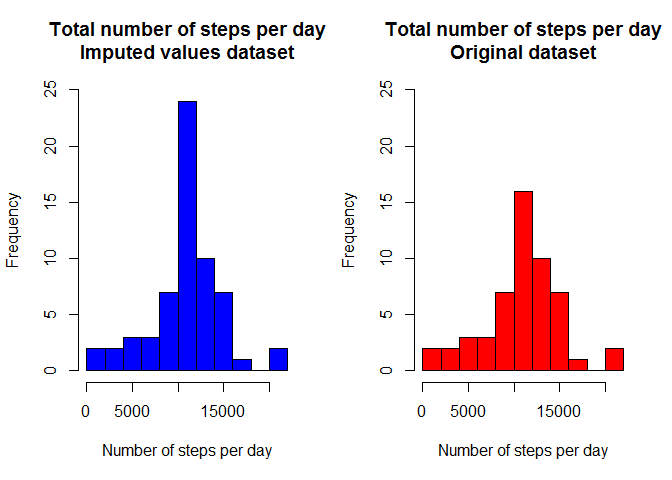
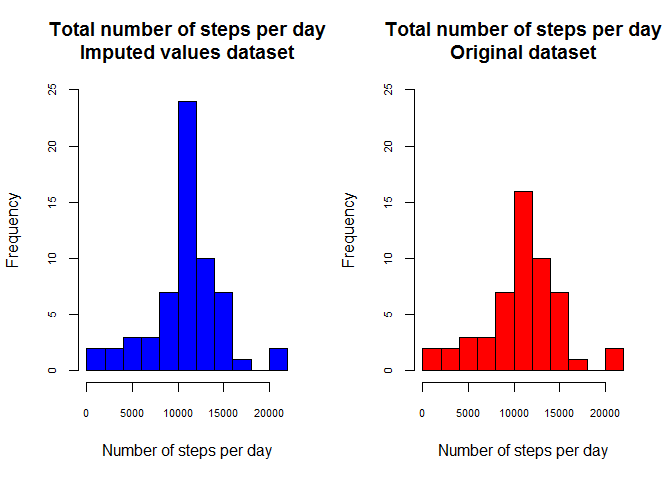
small edits

diff --git a/PA1_template.html b/PA1_template.html
@@ -166,8 +166,7 @@ sum(NAs)</code></pre>
 ## 8 2012-11-30          NA</code></pre>
 <p>So imputing missing values via same day’s mean/median is no option. I’ve opted to <strong>impute missing values via 5-minute interval means</strong> (calculated across all days) instead.<br />We proceed merging original dataset with the average steps per interval we calculated before, we impute the values and then drop non relevant columns to obtain a new dataset equal to the original but with missing data filled in.</p>
 <pre class="r"><code>merged = left_join(data_tbl,steps_by_interval,
-                   by.x=interval,
-                   by.y=interval)
+                   by=&quot;interval&quot;)
 merged$steps[NAs]=merged$avg_steps[NAs]
 newdata_tbl = merged[,-4]</code></pre>
 <p>No NA value is there anymore:</p>
@@ -179,7 +178,7 @@ newdata_tbl = merged[,-4]</code></pre>
                   group_by(date)%&gt;%
                   summarize(total_steps=sum(steps))</code></pre>
 <p>and plot a new histogram to show the new distribution of total steps per day and how it differs from the one we calculated with the missing values dataset:</p>
-<pre class="r"><code>par(mfrow=c(1,2))
+<pre class="r"><code>par(mfrow=c(1,2),cex.axis=0.7)
 hist(newsteps_by_day$total_steps,breaks=11,
      xlab = &quot;Number of steps per day&quot;,
      main = &quot;Total number of steps per day\nImputed values dataset&quot;,
@@ -190,7 +189,7 @@ hist(steps_by_day$total_steps,breaks=11,
      main = &quot;Total number of steps per day\nOriginal dataset&quot;,
      col= &quot;red&quot;,
      ylim=c(0,25))</code></pre>
[2 lines of base64/hex data omitted]
 <pre class="r"><code>par(mfrow=c(1,1))</code></pre>
 <p>Unsurprisingly, the way we imputed data did not alter the shape of the distribution much but reinforced central values. No meaningful change in mean and median values of total number of steps taken per day as well:</p>
 <pre class="r"><code>newavg_steps_by_day = mean(newsteps_by_day$total_steps)
@@ -224,9 +223,6 @@ xyplot(avg_steps~interval|daytype,data=newsteps_by_daytype_by_interval,
        xlab=&quot;5-minute interval&quot;,
        ylab=&quot;Average number of steps&quot;)</code></pre>
[1 lines of base64/hex data omitted]
-<div id="god-bless-relax-in-weekends" class="section level4">
-<h4><em>God bless relax in weekends!!!</em></h4>
-</div>
 </div>
 
 

diff --git a/PA1_template.md b/PA1_template.md
@@ -191,8 +191,7 @@ We proceed merging original dataset with the average steps per interval we calcu
 
 ```r
 merged = left_join(data_tbl,steps_by_interval,
-                   by.x=interval,
-                   by.y=interval)
+                   by="interval")
 merged$steps[NAs]=merged$avg_steps[NAs]
 newdata_tbl = merged[,-4]
 ```
@@ -222,7 +221,7 @@ and plot a new histogram to show the new distribution of total steps per day and
 
 
 ```r
-par(mfrow=c(1,2))
+par(mfrow=c(1,2),cex.axis=0.7)
 hist(newsteps_by_day$total_steps,breaks=11,
      xlab = "Number of steps per day",
      main = "Total number of steps per day\nImputed values dataset",
@@ -312,4 +311,3 @@ xyplot(avg_steps~interval|daytype,data=newsteps_by_daytype_by_interval,
 
 ![](PA1_template_files/figure-html/unnamed-chunk-19-1.png) 
 
-#### *God bless relax in weekends!!!*
